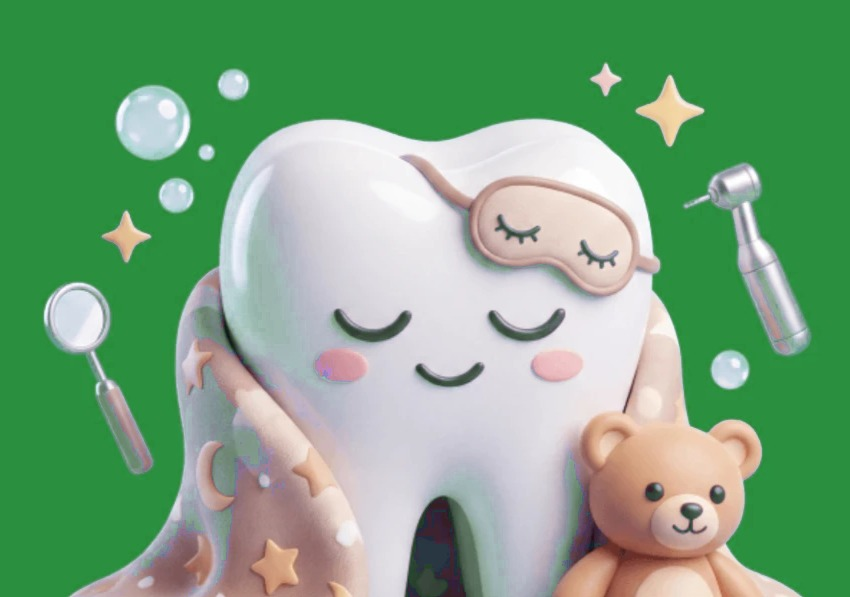
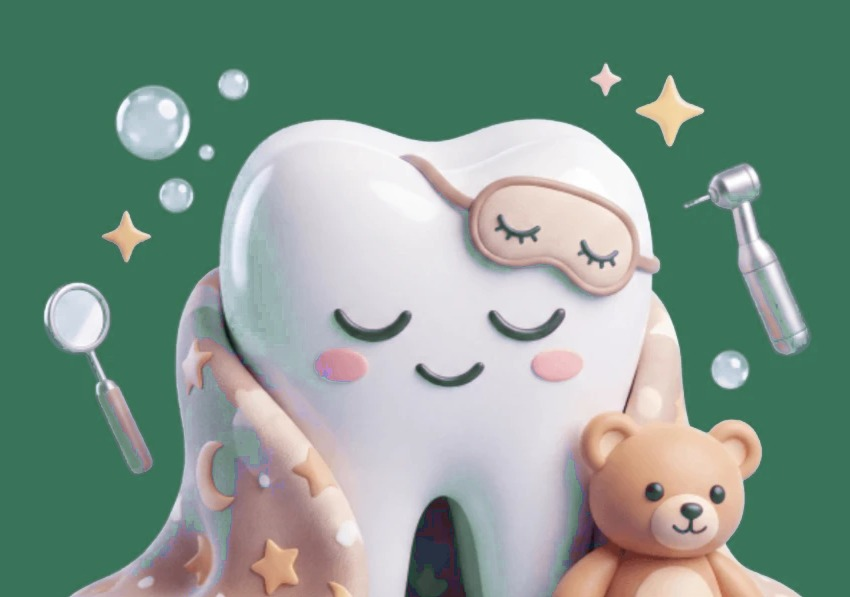
Новая цветовая гамма

diff --git a/styles.css b/styles.css
@@ -1,20 +1,19 @@
-/* Kenzhetayev Clinic: зелёно-белая гамма логотипа, «живые» органические формы, двухэтажная шапка */
+/* Kenzhetayev Clinic: спокойная зелёно-белая гамма (шалфей и графит), «живые» органические формы, двухэтажная шапка */
 :root {
-  --green: #227c34;
-  --green-dark: #165a25;
-  --green-deep: #0f3f1b;
-  --green-mid: #2f9a46;
-  --green-light: #5cc07a;
-  --grad: linear-gradient(135deg, var(--green-dark), var(--green) 50%, var(--green-mid));
-  --grad-hero: linear-gradient(135deg, #0f3f1b 0%, #165a25 45%, #1f7a3a 100%);
-  --soft: linear-gradient(135deg, rgba(92, 192, 122, 0.25), rgba(34, 124, 52, 0.12));
+  --green: #39745a;
+  --green-dark: #20372b;
+  --green-deep: #20372b;
+  --green-mid: #4e8a6c;
+  --green-light: #8dbba2;
+  --grad: linear-gradient(135deg, #2d5e49, #39745a 55%, #4e8a6c);
+  --soft: #e5efe7;
   --bg: #ffffff;
-  --mint: #f1f9f3;
-  --text: #1c2a21;
-  --muted: #66766b;
-  --line: #e1ece4;
+  --mint: #f4f7f4;
+  --text: #20372b;
+  --muted: #64736a;
+  --line: #e4ebe5;
   --radius: 22px;
-  --shadow: 0 18px 50px rgba(22, 90, 37, 0.12);
+  --shadow: 0 18px 50px rgba(32, 55, 43, 0.12);
 }
 
 * { box-sizing: border-box; }
@@ -43,8 +42,8 @@ section { padding: 88px 0; position: relative; }
   border: 2px solid transparent; cursor: pointer; transition: transform 0.25s ease, box-shadow 0.25s ease, background 0.25s ease, color 0.25s ease;
 }
 .btn:hover { transform: translateY(-2px); }
-.btn-grad { background: var(--grad); color: #fff; box-shadow: 0 10px 26px rgba(34, 124, 52, 0.3); }
-.btn-grad:hover { box-shadow: 0 14px 32px rgba(34, 124, 52, 0.4); }
+.btn-grad { background: var(--grad); color: #fff; box-shadow: 0 10px 26px rgba(57, 116, 90, 0.3); }
+.btn-grad:hover { box-shadow: 0 14px 32px rgba(57, 116, 90, 0.4); }
 .btn-ghost { background: #fff; color: var(--green-dark); border-color: var(--line); }
 .btn-ghost:hover { border-color: var(--green); }
 .btn-outline { background: #fff; color: var(--green-dark); border-color: var(--green); }
@@ -59,8 +58,8 @@ section { padding: 88px 0; position: relative; }
 
 /* ---------- шапка ---------- */
 .top { position: sticky; top: 0; z-index: 40; background: #fff; transition: box-shadow 0.3s ease; }
-.top.scrolled { box-shadow: 0 8px 30px rgba(15, 63, 27, 0.14); }
-.top::before { content: ""; position: absolute; left: 0; top: 0; width: min(46vw, 560px); height: 100%; background: linear-gradient(120deg, #d9f0df, #eaf7ee 60%, transparent); border-radius: 0 0 90% 0 / 0 0 100% 0; pointer-events: none; }
+.top.scrolled { box-shadow: 0 8px 30px rgba(32, 55, 43, 0.14); }
+.top::before { content: ""; position: absolute; left: 0; top: 0; width: min(46vw, 560px); height: 100%; background: linear-gradient(120deg, #e5efe7, #f4f7f4 60%, transparent); border-radius: 0 0 90% 0 / 0 0 100% 0; pointer-events: none; }
 .topbar { position: relative; display: flex; align-items: center; justify-content: space-between; gap: 16px; padding-top: 12px; padding-bottom: 10px; }
 .logo { display: flex; align-items: center; gap: 12px; text-decoration: none; color: var(--green-dark); }
 .logo img { height: 46px; width: auto; }
@@ -70,13 +69,13 @@ section { padding: 88px 0; position: relative; }
 .phone { font: 800 20px/1 Montserrat, sans-serif; text-decoration: none; color: var(--green-dark); white-space: nowrap; margin-left: 6px; }
 .phone:hover { color: var(--green-mid); }
 .navbar { position: relative; padding-bottom: 12px; }
-.mainnav { background: var(--green-dark); border-radius: 18px; box-shadow: 0 10px 26px rgba(15, 63, 27, 0.25); }
+.mainnav { background: var(--green-dark); border-radius: 18px; box-shadow: 0 10px 26px rgba(32, 55, 43, 0.25); }
 .mainnav ul { list-style: none; margin: 0; padding: 0 10px; display: flex; justify-content: space-between; }
 .mainnav li { position: relative; }
 .mainnav li > a { display: flex; align-items: center; gap: 6px; padding: 16px 18px; color: #fff; text-decoration: none; font: 700 13px/1 Inter, sans-serif; text-transform: uppercase; letter-spacing: 0.05em; transition: color 0.2s; }
-.mainnav li > a:hover, .mainnav li > a[aria-current] { color: #9be3b0; }
+.mainnav li > a:hover, .mainnav li > a[aria-current] { color: #bfe0cc; }
 .has-sub > a::after { content: ""; width: 6px; height: 6px; border-right: 2px solid currentColor; border-bottom: 2px solid currentColor; transform: rotate(45deg) translateY(-2px); }
-.sub { position: absolute; left: 0; top: 100%; min-width: 290px; background: #fff; border-radius: 16px; padding: 10px; box-shadow: 0 22px 50px rgba(15, 63, 27, 0.22); opacity: 0; visibility: hidden; transform: translateY(10px); transition: opacity 0.25s ease, transform 0.25s ease, visibility 0s 0.25s; z-index: 5; }
+.sub { position: absolute; left: 0; top: 100%; min-width: 290px; background: #fff; border-radius: 16px; padding: 10px; box-shadow: 0 22px 50px rgba(32, 55, 43, 0.22); opacity: 0; visibility: hidden; transform: translateY(10px); transition: opacity 0.25s ease, transform 0.25s ease, visibility 0s 0.25s; z-index: 5; }
 .has-sub:hover .sub, .has-sub:focus-within .sub { opacity: 1; visibility: visible; transform: none; transition-delay: 0s; }
 .sub a { display: block; padding: 10px 14px; border-radius: 10px; text-decoration: none; font-size: 14px; color: var(--text); }
 .sub a:hover { background: var(--mint); color: var(--green-dark); }
@@ -84,7 +83,7 @@ section { padding: 88px 0; position: relative; }
 
 /* ---------- первый экран: слайдер ---------- */
 .blob { position: absolute; border-radius: 63% 37% 54% 46% / 55% 48% 52% 45%; filter: blur(2px); pointer-events: none; animation: drift 18s ease-in-out infinite; }
-.hero { --hero-bg: #2a8f3f; padding: 0; position: relative; background: var(--hero-bg); color: #fff; overflow: hidden; isolation: isolate; }
+.hero { --hero-bg: #39745a; padding: 0; position: relative; background: var(--hero-bg); color: #fff; overflow: hidden; isolation: isolate; }
 .hero .track { display: flex; overflow-x: auto; scroll-snap-type: x mandatory; scroll-behavior: smooth; scrollbar-width: none; overscroll-behavior-x: contain; outline: none; cursor: grab; }
 .hero .track::-webkit-scrollbar { display: none; }
 .hero .track.drag { scroll-snap-type: none; scroll-behavior: auto; cursor: grabbing; user-select: none; }
@@ -122,7 +121,7 @@ section { padding: 88px 0; position: relative; }
 .tile { display: flex; flex-direction: column; align-items: center; text-align: center; gap: 8px; text-decoration: none; padding: 8px; border-radius: 20px; transition: transform 0.3s ease; }
 .tile b { font-size: 15px; line-height: 1.3; }
 .tile small { color: var(--green); font-weight: 600; font-size: 13px; }
-.tile-ico { width: 88px; height: 88px; border-radius: 26px; background: var(--grad); color: #fff; display: grid; place-items: center; font-size: 40px; box-shadow: 0 14px 30px rgba(22, 90, 37, 0.28); transition: transform 0.35s cubic-bezier(0.2, 0.8, 0.2, 1), border-radius 0.35s ease; }
+.tile-ico { width: 88px; height: 88px; border-radius: 26px; background: var(--grad); color: #fff; display: grid; place-items: center; font-size: 40px; box-shadow: 0 14px 30px rgba(45, 94, 73, 0.28); transition: transform 0.35s cubic-bezier(0.2, 0.8, 0.2, 1), border-radius 0.35s ease; }
 .tile-ico.sm { width: 52px; height: 52px; border-radius: 16px; font-size: 26px; box-shadow: none; }
 .tile:hover { transform: translateY(-6px); }
 .tile:hover .tile-ico { transform: scale(1.08) rotate(-4deg); border-radius: 34px; }
@@ -136,7 +135,7 @@ section { padding: 88px 0; position: relative; }
 .price-row:last-child { border-bottom: 0; }
 .price-row b { white-space: nowrap; font-weight: 700; color: var(--green-dark); }
 .price-row .none { color: var(--muted); font-weight: 500; }
-.has-blob .b1 { width: 520px; height: 520px; left: -160px; bottom: -220px; background: radial-gradient(circle, rgba(92, 192, 122, 0.3), transparent 70%); }
+.has-blob .b1 { width: 520px; height: 520px; left: -160px; bottom: -220px; background: radial-gradient(circle, rgba(141, 187, 162, 0.3), transparent 70%); }
 
 /* ---------- почему мы ---------- */
 .why-grid { display: grid; grid-template-columns: 1fr 1fr; gap: 28px 56px; }
@@ -160,7 +159,7 @@ section { padding: 88px 0; position: relative; }
 .car-count { font-size: 14px; color: var(--muted); min-width: 64px; text-align: center; }
 .review { flex: 0 0 min(370px, 84vw); scroll-snap-align: start; background: #fff; border: 1px solid var(--line); border-radius: 24px; padding: 26px; display: flex; flex-direction: column; gap: 14px; transition: transform 0.3s ease, box-shadow 0.3s ease; height: 100%; }
 .review:hover { transform: translateY(-4px); box-shadow: var(--shadow); }
-.review p { margin: 0; font-size: 15px; color: #33423a; }
+.review p { margin: 0; font-size: 15px; color: #2c4336; }
 .who { margin-top: auto; display: flex; align-items: center; gap: 12px; }
 .avatar { width: 42px; height: 42px; border-radius: 50%; background: var(--grad); color: #fff; display: grid; place-items: center; font: 700 15px Montserrat, sans-serif; flex: none; }
 .review b { display: block; font-size: 14px; }
@@ -196,13 +195,13 @@ section { padding: 88px 0; position: relative; }
 .videos { display: flex; gap: 18px; overflow-x: auto; scroll-snap-type: x mandatory; padding: 4px 4px 16px; scrollbar-width: thin; }
 .video { flex: 0 0 min(330px, 82vw); scroll-snap-align: start; border-radius: 24px; overflow: hidden; border: 1px solid var(--line); background: #fff; }
 .video iframe { width: 100%; height: 600px; border: 0; display: block; }
-.video-file { background: #0d1f14; }
-.video-file video { width: 100%; height: 600px; object-fit: cover; display: block; background: #0d1f14; }
+.video-file { background: #14221a; }
+.video-file video { width: 100%; height: 600px; object-fit: cover; display: block; background: #14221a; }
 
 /* ---------- обратный звонок ---------- */
 .callback { padding: 40px 0 88px; }
 .cb-card { position: relative; display: grid; grid-template-columns: 1.1fr 0.9fr; gap: 28px; align-items: center; background: var(--grad-hero); color: #fff; border-radius: 36px; padding: 52px 52px 52px; overflow: hidden; box-shadow: var(--shadow); }
-.cb-card::before { content: ""; position: absolute; width: 420px; height: 420px; right: -120px; top: -160px; border-radius: 50%; background: radial-gradient(circle, rgba(92, 192, 122, 0.45), transparent 70%); animation: drift 16s ease-in-out infinite; }
+.cb-card::before { content: ""; position: absolute; width: 420px; height: 420px; right: -120px; top: -160px; border-radius: 50%; background: radial-gradient(circle, rgba(141, 187, 162, 0.45), transparent 70%); animation: drift 16s ease-in-out infinite; }
 .cb-text { position: relative; }
 .cb-text h2 { font-size: clamp(26px, 3.2vw, 36px); font-weight: 800; text-align: left; }
 .cb-text p { color: rgba(255, 255, 255, 0.86); }
@@ -226,20 +225,20 @@ section { padding: 88px 0; position: relative; }
 
 /* ---------- внутренние страницы ---------- */
 .page-head { padding: 54px 0 64px; background: var(--grad-hero); color: #fff; overflow: hidden; isolation: isolate; }
-.page-head .b1 { width: 420px; height: 420px; left: -120px; top: -180px; background: radial-gradient(circle, rgba(92, 192, 122, 0.5), transparent 70%); }
-.page-head .b2 { width: 480px; height: 480px; right: -140px; bottom: -240px; background: radial-gradient(circle, rgba(120, 220, 170, 0.38), transparent 70%); animation-direction: reverse; }
+.page-head .b1 { width: 420px; height: 420px; left: -120px; top: -180px; background: radial-gradient(circle, rgba(141, 187, 162, 0.5), transparent 70%); }
+.page-head .b2 { width: 480px; height: 480px; right: -140px; bottom: -240px; background: radial-gradient(circle, rgba(160, 205, 182, 0.38), transparent 70%); animation-direction: reverse; }
 .page-head .wrap { position: relative; z-index: 1; }
 .page-head h1 { font-size: clamp(28px, 4.2vw, 46px); font-weight: 800; margin-bottom: 12px; }
 .page-head .lead { color: rgba(255, 255, 255, 0.88); max-width: 720px; font-size: 17px; margin: 0; }
 .crumbs { font-size: 14px; color: rgba(255, 255, 255, 0.75); margin-bottom: 16px; }
 .crumbs a { text-decoration: none; }
 .crumbs a:hover { color: #fff; text-decoration: underline; }
-.about-text { font-size: 18px; max-width: 820px; margin: 0 auto 40px; text-align: center; color: #3b4a40; }
+.about-text { font-size: 18px; max-width: 820px; margin: 0 auto 40px; text-align: center; color: #3f5246; }
 .grid { display: grid; gap: 20px; grid-template-columns: repeat(auto-fit, minmax(240px, 1fr)); }
 .card { background: #fff; border: 1px solid var(--line); border-radius: var(--radius); padding: 28px; transition: transform 0.35s ease, box-shadow 0.35s ease; }
 .card:hover { transform: translateY(-4px); box-shadow: var(--shadow); }
 .card h3 { font-size: 18px; }
-.card p { margin: 0; color: #4d5b51; font-size: 15px; }
+.card p { margin: 0; color: #55665b; font-size: 15px; }
 .license { display: flex; gap: 18px; align-items: flex-start; }
 .license:hover { transform: none; box-shadow: none; }
 .steps { display: grid; grid-template-columns: repeat(auto-fit, minmax(230px, 1fr)); gap: 20px; }
@@ -252,7 +251,7 @@ section { padding: 88px 0; position: relative; }
 .faq summary::-webkit-details-marker { display: none; }
 .faq summary::after { content: "+"; color: var(--green); font-size: 20px; line-height: 1; }
 .faq details[open] summary::after { content: "–"; }
-.faq details p { margin: 12px 0 0; color: #4d5b51; }
+.faq details p { margin: 12px 0 0; color: #55665b; }
 
 .price-tools { display: grid; gap: 16px; margin-bottom: 26px; }
 .price-search { width: 100%; padding: 16px 22px; border-radius: 999px; border: 1px solid var(--line); font: inherit; background: var(--mint); }
@@ -277,13 +276,13 @@ section { padding: 88px 0; position: relative; }
 /* ---------- панель с ценами ---------- */
 .sheet { position: fixed; inset: 0; z-index: 60; visibility: hidden; transition: visibility 0s 0.45s; }
 .sheet.open { visibility: visible; transition: none; }
-.scrim { position: absolute; inset: 0; background: rgba(12, 30, 18, 0.5); opacity: 0; transition: opacity 0.35s ease; }
+.scrim { position: absolute; inset: 0; background: rgba(20, 32, 26, 0.5); opacity: 0; transition: opacity 0.35s ease; }
 .sheet.open .scrim { opacity: 1; }
 .panel { position: absolute; top: 0; right: 0; bottom: 0; width: min(520px, 100%); background: #fff; display: flex; flex-direction: column; transform: translateX(100%); transition: transform 0.45s cubic-bezier(0.2, 0.8, 0.2, 1); }
 .sheet.open .panel { transform: none; }
 .panel-head { display: flex; justify-content: space-between; align-items: center; gap: 16px; padding: 24px 24px 18px; border-bottom: 1px solid var(--line); }
 .panel-head h3 { margin: 0; font-size: 20px; }
-.x { border: 0; background: #eaf3ed; width: 36px; height: 36px; border-radius: 50%; cursor: pointer; font-size: 14px; flex: none; }
+.x { border: 0; background: #e5efe7; width: 36px; height: 36px; border-radius: 50%; cursor: pointer; font-size: 14px; flex: none; }
 .panel-body { flex: 1; overflow: auto; padding: 4px 24px; }
 .panel-body .note { text-align: left; padding: 16px 0 8px; margin: 0; }
 .panel-foot { padding: 20px 24px 26px; border-top: 1px solid var(--line); text-align: center; }
@@ -296,7 +295,7 @@ section { padding: 88px 0; position: relative; }
 .foot-grid { display: grid; grid-template-columns: 1.2fr 1fr 0.8fr 1.2fr; gap: 32px; padding-bottom: 28px; }
 .foot-grid h4 { color: #fff; font-size: 15px; margin-bottom: 14px; }
 .foot-grid a { display: block; color: rgba(255, 255, 255, 0.78); text-decoration: none; font-size: 14px; padding: 4px 0; transition: color 0.2s, transform 0.2s; }
-.foot-grid a:hover { color: #9be3b0; transform: translateX(3px); }
+.foot-grid a:hover { color: #bfe0cc; transform: translateX(3px); }
 .foot-grid p { font-size: 14px; margin: 0 0 8px; }
 .foot-logo { display: inline-block !important; background: #fff; border-radius: 20px; padding: 12px 16px !important; margin-bottom: 14px; }
 .foot-logo img { height: 74px; width: auto; }
@@ -309,7 +308,7 @@ section { padding: 88px 0; position: relative; }
 .admin-link:hover { color: rgba(255, 255, 255, 0.6); }
 
 /* плавающая кнопка WhatsApp */
-.fab { position: fixed; right: 20px; bottom: 20px; z-index: 30; width: 58px; height: 58px; border-radius: 50%; background: var(--grad); color: #fff; display: grid; place-items: center; font-size: 28px; text-decoration: none; box-shadow: 0 14px 34px rgba(22, 90, 37, 0.45); }
+.fab { position: fixed; right: 20px; bottom: 20px; z-index: 30; width: 58px; height: 58px; border-radius: 50%; background: var(--grad); color: #fff; display: grid; place-items: center; font-size: 28px; text-decoration: none; box-shadow: 0 14px 34px rgba(45, 94, 73, 0.45); }
 .fab::after { content: ""; position: absolute; inset: 0; border-radius: 50%; border: 2px solid var(--green-light); animation: ring 2.4s ease-out infinite; }
 
 /* ---------- анимации ---------- */

diff --git a/admin.html b/admin.html
@@ -6,12 +6,12 @@
   <meta name="robots" content="noindex, nofollow">
   <title>Управление сайтом</title>
   <style>
-    :root { --grad: linear-gradient(45deg, #feda75, #fa7e1e 25%, #d62976 55%, #962fbf 80%, #4f5bd5); --line: #dbdbdb; --muted: #8e8e8e; }
+    :root { --grad: linear-gradient(135deg, #2d5e49, #39745a); --line: #dbdbdb; --muted: #8e8e8e; }
     * { box-sizing: border-box; }
-    body { margin: 0; font: 15px/1.5 Inter, system-ui, sans-serif; color: #262626; background: #fafafa; }
+    body { margin: 0; font: 15px/1.5 Inter, system-ui, sans-serif; color: #20372b; background: #f4f7f4; }
     .wrap { max-width: 900px; margin: 0 auto; padding: 0 16px 96px; }
     h1 { font: 800 22px Montserrat, Inter, sans-serif; margin: 0; }
-    .bar { display: flex; justify-content: space-between; align-items: center; gap: 12px; flex-wrap: wrap; position: sticky; top: 0; z-index: 5; background: #fafafa; padding: 16px 0 12px; }
+    .bar { display: flex; justify-content: space-between; align-items: center; gap: 12px; flex-wrap: wrap; position: sticky; top: 0; z-index: 5; background: #f4f7f4; padding: 16px 0 12px; }
     .btn { padding: 10px 18px; border: 0; border-radius: 10px; background: var(--grad); color: #fff; font: 600 14px Inter, sans-serif; cursor: pointer; }
     .site { color: var(--muted); font-size: 14px; margin-right: 12px; }
     .hint { color: var(--muted); font-size: 14px; margin: 0 0 12px; }

diff --git a/render.js b/render.js
@@ -159,7 +159,7 @@ function head(S, origin, page) {
   <meta name="description" content="${esc(m.description)}">
   <meta name="robots" content="${page.type === "notfound" ? "noindex" : "index, follow, max-image-preview:large"}">
   <link rel="canonical" href="${esc(m.url)}">
-  <meta name="theme-color" content="#165a25">
+  <meta name="theme-color" content="#39745a">
   <meta property="og:title" content="${esc(m.title)}">
   <meta property="og:description" content="${esc(m.description)}">
   <meta property="og:type" content="website">
